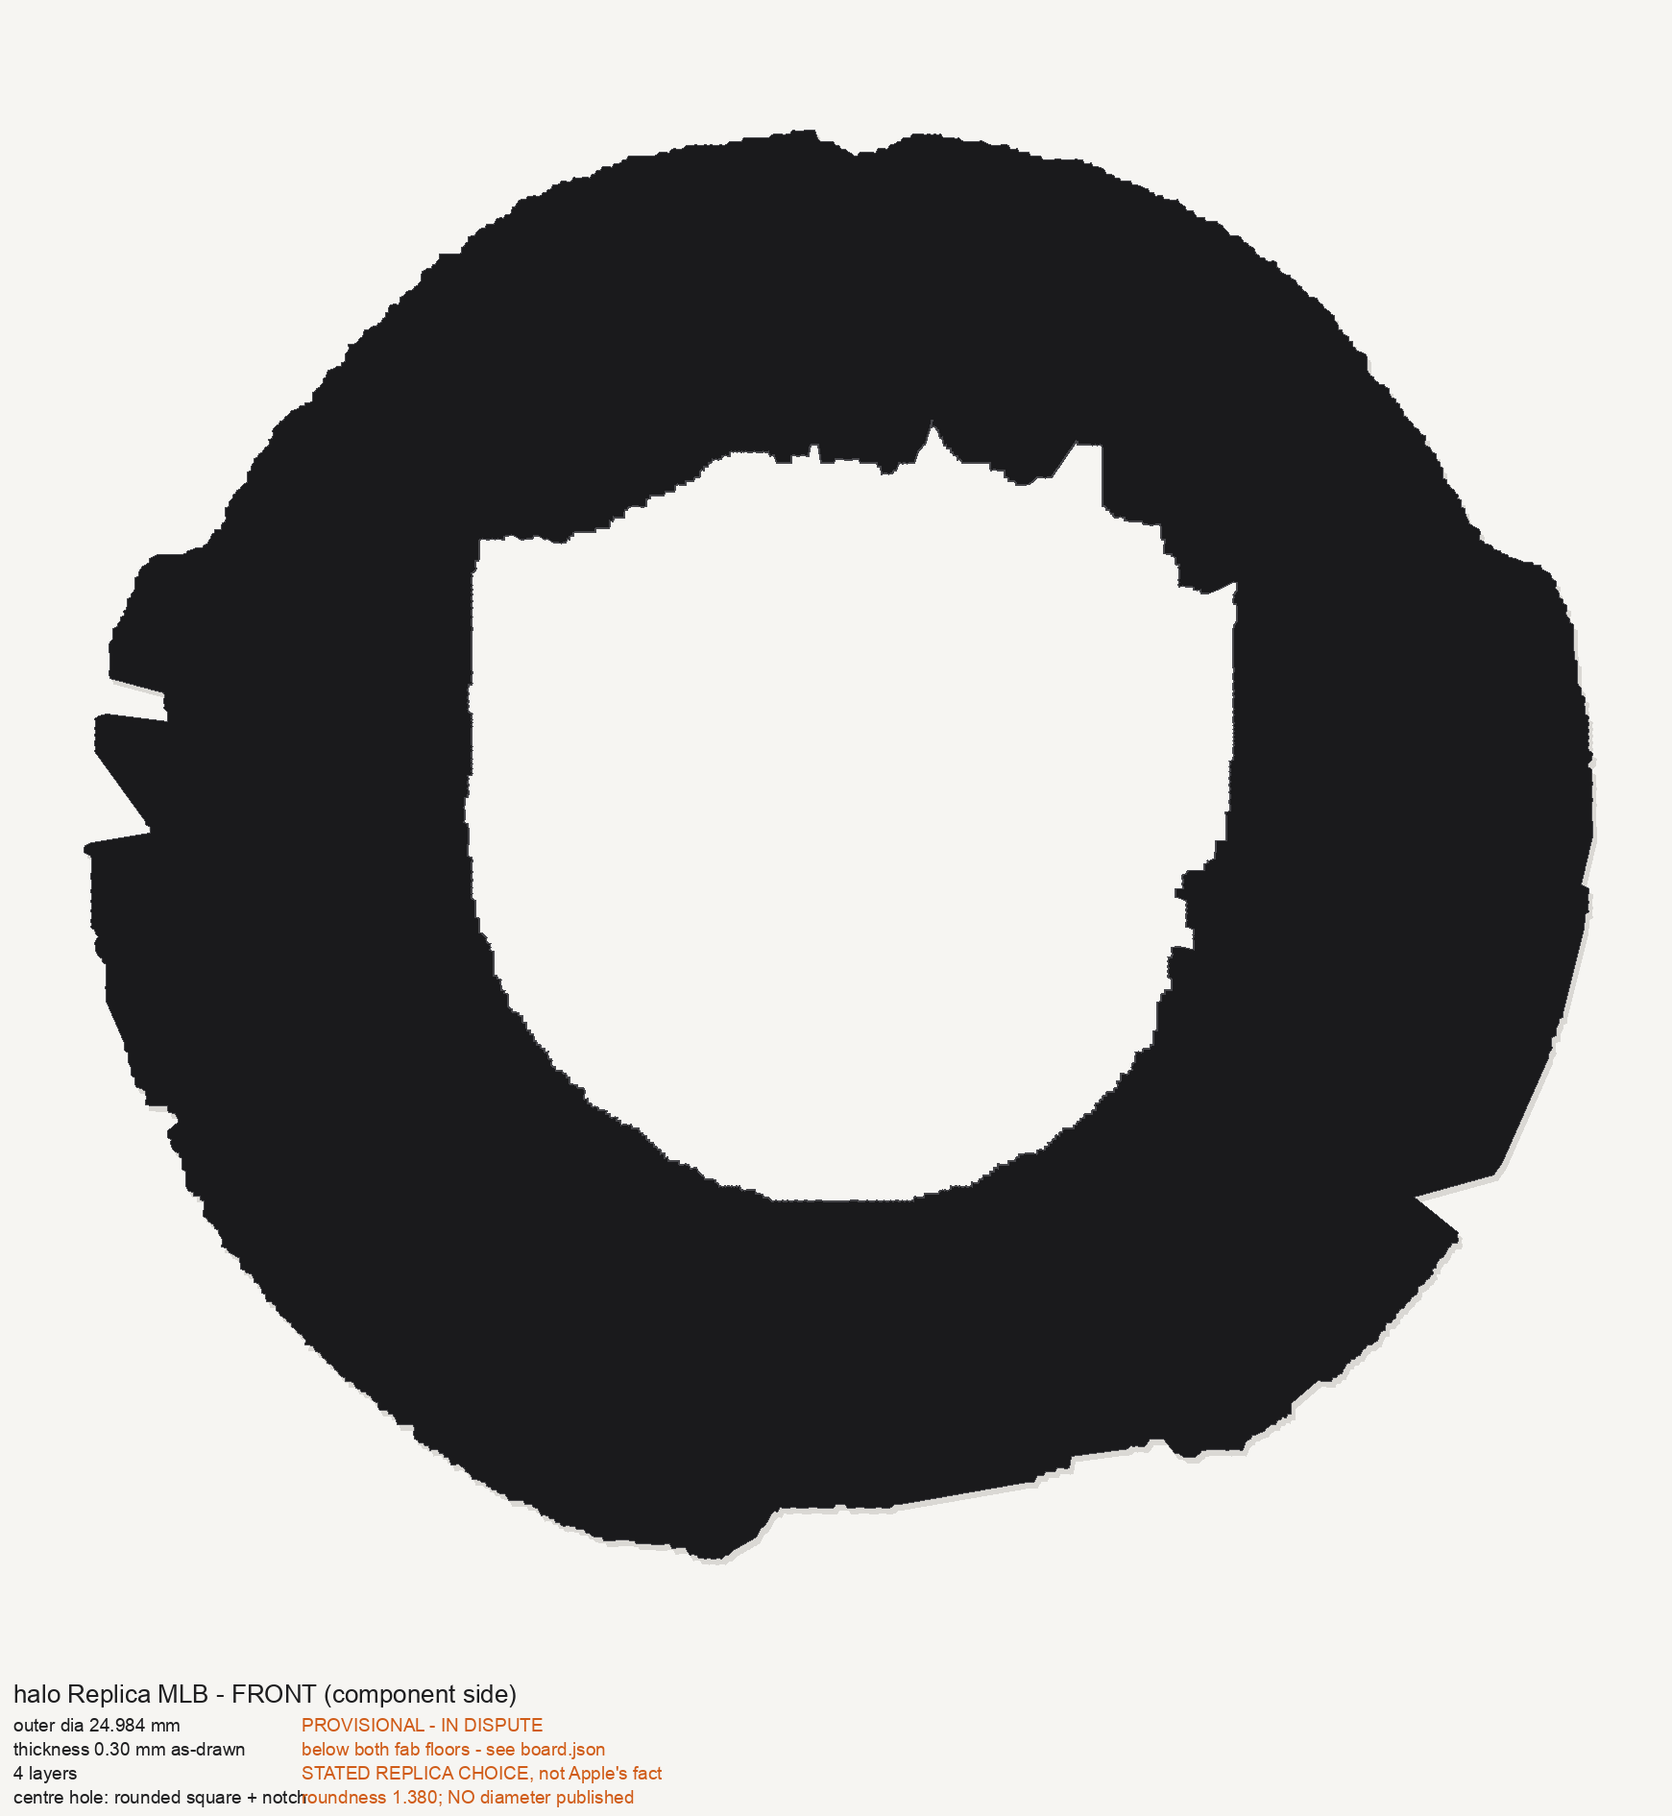
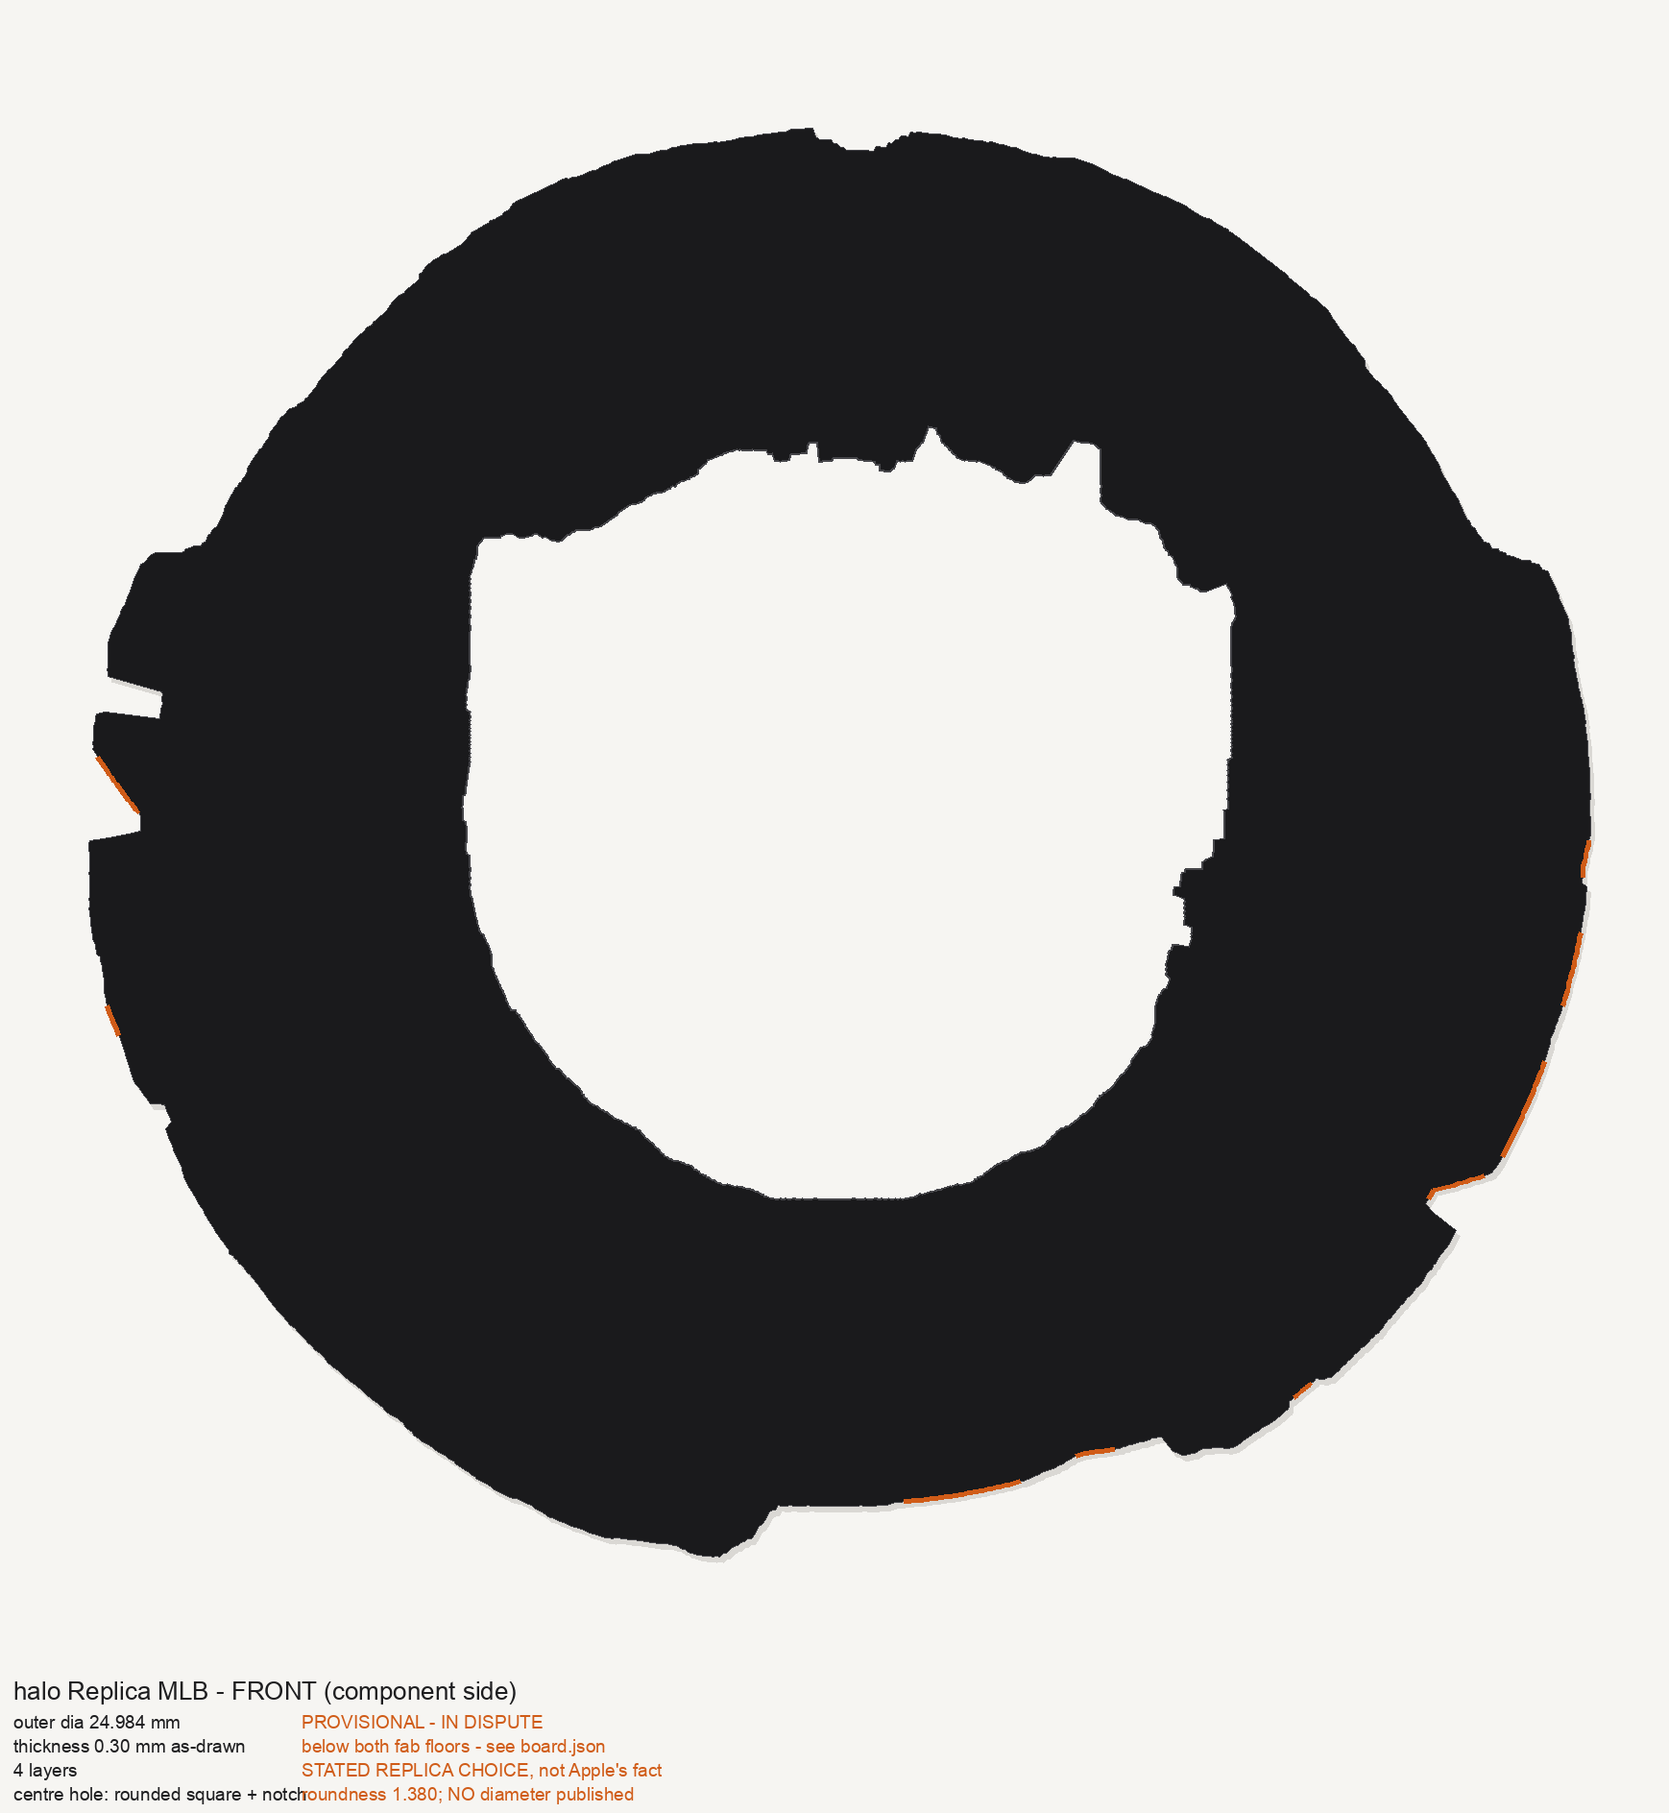
L5 board build: the side-by-side exists - our outline beside Apple's photo 6, RMS 0.281 mm
First picture on disk. p_outline.py extracts the board silhouette off FCC photo 6
(outer + centre hole, in mm, no circle fitted to anything); p_render.py draws the
parameterised board from board/board.json; p_compare.py puts ours beside Apple's at
matched scale and overlays our outline on the photograph.

Measured: outer 2 x mean radius 24.984 mm (PROVISIONAL, in dispute - O'Flynn '~26',
L1 ~24.6). Centre hole roundness r_max/r_min = 1.380 against 1.414 for a square, so
it is a rounded square and this lane publishes no hole diameter. 44.2 deg of outer
arc is interpolated across rays that crossed Apple's orange leader arrows; those arcs
are drawn in the provisional colour so the picture says where it is guessing.

Controls watched to go red on purpose: C1 clip (too-small crop box) exit 1; C4
negative control on a ruler patch exit 1; missing --scale-basis exit 2; R3 scale
fires at 9.8% when the render is drawn 10% large while the control measures at the
scale the caller asked for - the two sides deliberately do not share the broken
number, or it would cancel and pass a broken build.

Claude-Session: https://claude.ai/code/session_01RPNvcdGRmNzJUnPG4rCt5J

diff --git a/electronics/halo_replica/tools/p_compare.py b/electronics/halo_replica/tools/p_compare.py
@@ -1,0 +1,227 @@
+#!/usr/bin/env python3
+"""p_compare.py -- THE SIDE-BY-SIDE. Our render beside Apple's photograph at MATCHED
+SCALE and MATCHED ORIENTATION, plus an outline overlay on the photograph itself.
+
+Lane L5 (BOARD BUILD), halo Replica.  This picture is what this lane is judged on.
+Exit code IS the verdict: 0 PASS / 1 FAIL / 2 CANNOT DETERMINE.
+
+Three panels:
+  1  OURS      -- rendered from board/board.json, no caption, on the photo's own paper
+  2  APPLE'S   -- the FCC internal photo, cropped to the board, resampled to the SAME
+                  millimetres-per-pixel as panel 1
+  3  OVERLAY   -- our outline drawn in cyan ON Apple's photograph. This is the panel
+                  that shows disagreement; the first two only show resemblance.
+
+CONTROLS
+  X1 scale-match  -- both panels are measured back off the finished image and their
+                     2 x mean board radius in mm must agree to 1%. Two pictures that
+                     merely LOOK the same size prove nothing.
+  X2 non-blank    -- the finished PNG is read back; blank or near-blank is a FAIL.
+  X3 mis-registration control -- --break-rotation N rotates our outline by N degrees
+                     before overlaying. The residual MUST get worse. A comparison whose
+                     number does not move when the alignment is destroyed is measuring
+                     nothing.
+  X4 residual     -- the overlay reports the RMS radial disagreement in mm between our
+                     drawn outline and the photograph's own silhouette, per ray. This
+                     is a number, not an adjective.
+"""
+import argparse, json, math, os, subprocess, sys
+import numpy as np
+from PIL import Image, ImageDraw, ImageFont
+from scipy import ndimage
+
+PASS, FAIL, CANNOT = 0, 1, 2
+HERE = os.path.dirname(os.path.abspath(__file__))
+REPL = os.path.dirname(HERE)
+BOARD_DIR = os.path.join(REPL, "board")
+ROOT = os.path.dirname(os.path.dirname(REPL))
+BG = (246, 245, 242)
+INK = (26, 26, 28)
+PROV = (208, 92, 24)
+CYAN = (0, 224, 232)
+
+
+def say(*a):
+    print(*a, file=sys.stderr)
+
+
+def font(sz, bold=False):
+    for p in ("/System/Library/Fonts/Supplemental/Arial Bold.ttf" if bold else
+              "/System/Library/Fonts/Supplemental/Arial.ttf",
+              "/System/Library/Fonts/Helvetica.ttc"):
+        if os.path.exists(p):
+            try:
+                return ImageFont.truetype(p, sz)
+            except Exception:
+                pass
+    return ImageFont.load_default()
+
+
+def board_mask(a_l):
+    """dark, largest component, holes filled -> the board silhouette"""
+    m = a_l < 120
+    lab, n = ndimage.label(m)
+    if n == 0:
+        return None
+    sizes = ndimage.sum(m, lab, range(1, n + 1))
+    return ndimage.binary_fill_holes(lab == (int(np.argmax(sizes)) + 1))
+
+
+def radial(mask, n=720):
+    ys, xs = np.nonzero(mask)
+    cx, cy = xs.mean(), ys.mean()
+    th = np.deg2rad(np.arange(n) * 360.0 / n)
+    rr = np.arange(1.0, 0.75 * max(mask.shape), 0.5)
+    R, T = np.meshgrid(rr, th)
+    X = np.rint(cx + R * np.cos(T)).astype(int)
+    Y = np.rint(cy - R * np.sin(T)).astype(int)
+    ok = (X >= 0) & (Y >= 0) & (X < mask.shape[1]) & (Y < mask.shape[0])
+    hit = np.zeros_like(R, dtype=bool)
+    hit[ok] = mask[Y[ok], X[ok]]
+    r = np.array([rr[np.nonzero(h)[0][-1]] if h.any() else np.nan for h in hit])
+    return cx, cy, np.rad2deg(th), r
+
+
+def main():
+    ap = argparse.ArgumentParser()
+    ap.add_argument("--photo", default=os.path.join(ROOT, "images", "airtag",
+                                                    "fcc-BCGA2187-internal-photo-6.jpg"))
+    ap.add_argument("--photo-box", nargs=4, type=int, default=[660, 400, 1250, 960])
+    ap.add_argument("--photo-px-per-mm", type=float, default=15.887545712881764)
+    ap.add_argument("--photo-scale-basis",
+                    default="photo6 BOTTOM steel rule, 93 ticks, linear resid sd 0.573 px (L1 scale-field.json)")
+    ap.add_argument("--px-per-mm", type=float, default=48.0, help="the shared scale of the montage")
+    ap.add_argument("--board", default=os.path.join(BOARD_DIR, "board.json"))
+    ap.add_argument("--break-rotation", type=float, default=0.0,
+                    help="X3: rotate OUR outline by this many degrees before overlaying. "
+                         "The residual must get worse. Watch the control go red.")
+    ap.add_argument("--out", default=os.path.join(BOARD_DIR, "out", "compare-front.png"))
+    a = ap.parse_args()
+
+    say("INPUT")
+    say(f"  photo             {os.path.relpath(a.photo, ROOT)}")
+    say(f"  photo crop        {a.photo_box}")
+    say(f"  photo px/mm       {a.photo_px_per_mm}   basis: {a.photo_scale_basis}")
+    say(f"  montage px/mm     {a.px_per_mm}  (BOTH panels resampled to this)")
+    say(f"  board model       {os.path.relpath(a.board, ROOT)}")
+    if a.break_rotation:
+        say(f"  X3 BREAK          our outline rotated {a.break_rotation} deg on purpose")
+    say("")
+
+    # ---- panel 1: render ours, uncaptioned, at the montage scale
+    ours_png = os.path.join(BOARD_DIR, "out", ".compare-ours.png")
+    r = subprocess.run([sys.executable, os.path.join(HERE, "p_render.py"),
+                        "--board", a.board, "--px-per-mm", str(a.px_per_mm),
+                        "--no-caption", "--out", ours_png],
+                       capture_output=True, text=True)
+    if r.returncode != 0:
+        say("p_render.py refused; the montage inherits its verdict:")
+        say(r.stderr.strip()[-800:])
+        sys.exit(r.returncode)
+    ours = Image.open(ours_png).convert("RGB")
+
+    # ---- panel 2: the photo, resampled to the SAME px/mm
+    ph = Image.open(a.photo).convert("RGB").crop(tuple(a.photo_box))
+    f = a.px_per_mm / a.photo_px_per_mm
+    ph = ph.resize((int(ph.width * f), int(ph.height * f)), Image.LANCZOS)
+    say(f"photo resampled x{f:.4f} -> {ph.size[0]}x{ph.size[1]} px at {a.px_per_mm} px/mm")
+
+    # ---- X1 scale match, measured off the two panels
+    mo = board_mask(np.asarray(ours.convert("L")).astype(float))
+    mp = board_mask(np.asarray(ph.convert("L")).astype(float))
+    if mo is None or mp is None:
+        say("X2 FIRED: no board silhouette in one of the panels.")
+        sys.exit(CANNOT)
+    ocx, ocy, oth, orad = radial(mo)
+    pcx, pcy, pth, prad = radial(mp)
+    od = 2 * np.nanmean(orad) / a.px_per_mm
+    pd = 2 * np.nanmean(prad) / a.px_per_mm
+    say(f"X1 scale match: OURS 2 x mean r = {od:.3f} mm | APPLE'S = {pd:.3f} mm | "
+        f"delta {abs(od-pd)/pd*100:.2f}%")
+    x1 = abs(od - pd) / pd <= 0.01
+    if not x1:
+        say("X1 FIRED: the two panels are not at the same scale.")
+
+    # ---- X4 residual, per ray, in mm
+    rot = a.break_rotation
+    ours_r = np.interp((oth + rot) % 360, oth, orad, period=360)
+    resid = (ours_r - prad) / a.px_per_mm
+    good = np.isfinite(resid)
+    rms = float(np.sqrt(np.nanmean(resid[good] ** 2)))
+    p95 = float(np.nanpercentile(np.abs(resid[good]), 95))
+    say(f"X4 outline residual (ours - Apple's, per ray, {good.sum()} rays): "
+        f"RMS {rms:.3f} mm, p95 |.| {p95:.3f} mm, max {np.nanmax(np.abs(resid[good])):.3f} mm")
+
+    # ---- panel 3: overlay
+    ov = ph.copy()
+    dv = ImageDraw.Draw(ov, "RGBA")
+    pts = []
+    for i in range(len(pth)):
+        if not np.isfinite(ours_r[i]):
+            continue
+        ang = math.radians(pth[i])
+        pts.append((pcx + ours_r[i] * math.cos(ang), pcy - ours_r[i] * math.sin(ang)))
+    dv.line(pts + [pts[0]], fill=CYAN + (255,), width=3)
+
+    # ---- montage
+    cols = [("OURS  halo Replica R0", ours), ("APPLE'S  FCC BCGA2187 photo 6", ph),
+            ("OVERLAY  ours (cyan) on Apple's", ov)]
+    ch = max(i.height for _, i in cols)
+    cw = max(i.width for _, i in cols)
+    head, foot, gap = 66, 190, 22
+    W = 3 * cw + 4 * gap
+    H = head + ch + foot
+    m = Image.new("RGB", (W, H), BG)
+    dm = ImageDraw.Draw(m, "RGBA")
+    fb, fs, ft = font(30, True), font(20), font(17)
+    for i, (t, im2) in enumerate(cols):
+        x = gap + i * (cw + gap)
+        m.paste(im2, (x + (cw - im2.width) // 2, head + (ch - im2.height) // 2))
+        dm.text((x, 22), t, font=fb, fill=INK)
+    # a real scale bar, in the montage's own millimetres
+    bx, by = gap, head + ch + 16
+    dm.line([(bx, by), (bx + 10 * a.px_per_mm, by)], fill=INK, width=4)
+    for t in range(11):
+        dm.line([(bx + t * a.px_per_mm, by), (bx + t * a.px_per_mm, by - (12 if t % 5 else 20))],
+                fill=INK, width=2)
+    dm.text((bx + 10 * a.px_per_mm + 12, by - 12), "10 mm  (both panels, same scale)",
+            font=fs, fill=INK)
+
+    with open(a.board) as f2:
+        bd = json.load(f2)
+    y = by + 30
+    for line, col in [
+        (f"outline residual  RMS {rms:.3f} mm   p95 {p95:.3f} mm   over {good.sum()} rays", INK),
+        (f"OURS 2 x mean r = {od:.3f} mm     APPLE'S = {pd:.3f} mm     delta {abs(od-pd)/pd*100:.2f}%", INK),
+        (f"outer diameter {bd['parameters']['outer_diameter_mm']['value']:.3f} mm  PROVISIONAL AND IN DISPUTE "
+         f"(O'Flynn '~26', L1 ~24.6, L5 {bd['parameters']['outer_diameter_mm']['value']:.2f} off photo 6)", PROV),
+        ("thickness 0.30 mm AS-DRAWN; below PCBWay's and JLCPCB's 0.40 mm floors - a fact about US, not Apple", PROV),
+        ("4 layers = STATED REPLICA CHOICE. Apple's true count is CANNOT DETERMINE in {4,6}", PROV),
+        ("centre hole is a ROUNDED SQUARE WITH A NOTCH. This lane publishes no hole diameter.", PROV),
+        ("NOT YET DRAWN: rim pads, component footprints, silkscreen, copper. Outline only.", PROV),
+        (f"scale basis: {a.photo_scale_basis}", (110, 110, 114)),
+        ("FRONT = COMPONENT SIDE (Apple's caption). O'Flynn's 'frontside' is this project's BACK.", (110, 110, 114)),
+    ]:
+        dm.text((bx, y), line, font=ft, fill=col)
+        y += 19
+    if rot:
+        dm.text((bx + cw + gap, by - 4), f"X3 CONTROL ACTIVE: outline rotated {rot} deg on purpose",
+                font=fs, fill=(200, 0, 0))
+
+    os.makedirs(os.path.dirname(a.out), exist_ok=True)
+    m.save(a.out)
+    say(f"\nwrote {a.out}  {W}x{H}")
+
+    back = np.asarray(Image.open(a.out).convert("L")).astype(float)
+    x2 = back.std() > 5 and (back < 120).mean() > 0.02
+    say(f"X2 non-blank: sd {back.std():.2f}, dark {(back<120).mean():.4f} -> {'ok' if x2 else 'FIRED'}")
+
+    code = PASS if (x1 and x2) else FAIL
+    say({0: "PASS", 1: "FAIL", 2: "CANNOT DETERMINE"}[code])
+    print(json.dumps(dict(rms_mm=rms, p95_mm=p95, ours_dia_mm=od, apple_dia_mm=pd,
+                          rays=int(good.sum()), rotation_deg=rot)))
+    sys.exit(code)
+
+
+if __name__ == "__main__":
+    main()

diff --git a/electronics/halo_replica/tools/p_render.py b/electronics/halo_replica/tools/p_render.py
@@ -52,9 +52,38 @@ def font(sz):
     return ImageFont.load_default()
 
 
+def resample(rows, n=1440, smooth=5):
+    """Put a sparse r(theta) list onto a uniform grid, interpolating ACROSS the rays
+    p_outline.py discarded, and report which arcs are interpolated so the picture can
+    say so. Then an angular median-of-`smooth` to take out single-pixel jpeg noise --
+    and the maximum displacement it caused is REPORTED, because a smoother that quietly
+    erased the notch at top centre would make the render look better and be wrong."""
+    grid = np.arange(n) * 360.0 / n
+    t = np.array([r[0] for r in rows], float)
+    v = np.array([r[1] for r in rows], float)
+    o = np.argsort(t); t, v = t[o], v[o]
+    # wrap for periodic interpolation
+    tt = np.concatenate([t - 360, t, t + 360])
+    vv = np.concatenate([v, v, v])
+    r = np.interp(grid, tt, vv)
+    # which grid angles are further than one source step from any real measurement
+    step = 360.0 / n
+    d = np.min(np.abs((grid[:, None] - tt[None, :] + 180) % 360 - 180), axis=1)
+    interpolated = d > 1.5 * step
+    if smooth > 1:
+        pad = np.concatenate([r[-smooth:], r, r[:smooth]])
+        sm = np.array([np.median(pad[i:i + 2 * smooth + 1]) for i in range(n)])
+        moved = float(np.max(np.abs(sm - r)))
+        say(f"  angular median smoother (+/-{smooth} bins): max displacement "
+            f"{moved:.4f} mm")
+        r = sm
+    return grid, r, interpolated
+
+
 def load_profile(board):
-    """Return (outer_xy_mm, inner_xy_mm) closed polygons, centred on the board
-    centroid, scaled so the mean outer radius matches the stated diameter/2."""
+    """Return closed polygons in mm, centred on the board centroid, scaled so the mean
+    outer radius matches the stated diameter/2. ONE scale parameter; the SHAPE comes
+    from the photograph."""
     src = os.path.join(BOARD_DIR, board["outline"]["profile_source"])
     with open(src) as f:
         o = json.load(f)
@@ -64,18 +93,23 @@ def load_profile(board):
     say(f"profile source  {os.path.relpath(src)}")
     say(f"normalised: mean outer r in source {om:.4f} mm -> target {tgt_r:.4f} mm, k={k:.6f}")
 
-    def poly(rows):
-        rows = sorted(rows)
-        return [(k * r * math.cos(math.radians(t)), -k * r * math.sin(math.radians(t)))
-                for t, r in rows]
+    say("outer profile:")
+    to, ro, io_ = resample(o["outer"]["r_theta_deg_mm"])
+    say(f"  {io_.sum()}/{len(io_)} angles are INTERPOLATED across discarded rays "
+        f"({io_.sum()*360/len(io_):.1f} deg of arc) -- drawn, and marked on the picture")
+    say("inner profile:")
+    ti, ri, ii_ = resample(o["inner"]["r_theta_deg_mm"])
+    say(f"  {ii_.sum()}/{len(ii_)} angles interpolated")
 
-    outer = poly(o["outer"]["r_theta_deg_mm"])
-    inner = poly(o["inner"]["r_theta_deg_mm"])
-    return outer, inner, o, k
+    def poly(t, r):
+        return [(k * rr * math.cos(math.radians(a)), -k * rr * math.sin(math.radians(a)))
+                for a, rr in zip(t, r)]
+
+    return poly(to, ro), poly(ti, ri), o, k, io_, ii_
 
 
 def draw(board, px_per_mm, margin_mm, with_caption):
-    outer, inner, prof, k = load_profile(board)
+    outer, inner, prof, k, interp_o, interp_i = load_profile(board)
     R = max(math.hypot(x, y) for x, y in outer)
     half = R + margin_mm
     W = H = int(round(2 * half * px_per_mm))
@@ -91,6 +125,13 @@ def draw(board, px_per_mm, margin_mm, with_caption):
     d.polygon([P(p) for p in outer], fill=MASK, outline=MASK_EDGE)
     d.polygon([P(p) for p in inner], fill=BG)
     d.line([P(p) for p in inner] + [P(inner[0])], fill=MASK_EDGE, width=2)
+
+    # R4: the arcs that were INTERPOLATED across discarded rays are drawn in the
+    # provisional colour. Where the picture is a guess, the picture says so.
+    n = len(outer)
+    for i in range(n):
+        if interp_o[i] and interp_o[(i + 1) % n]:
+            d.line([P(outer[i]), P(outer[(i + 1) % n])], fill=PROV + (255,), width=5)
 
     if with_caption:
         f1, f2 = font(26), font(19)
